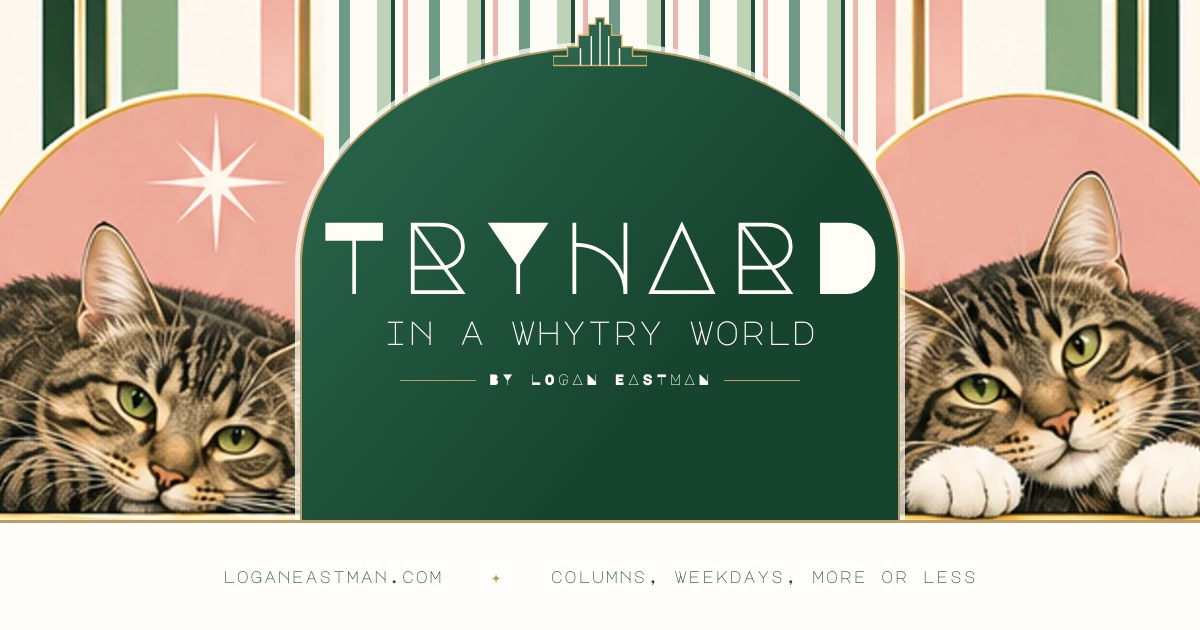
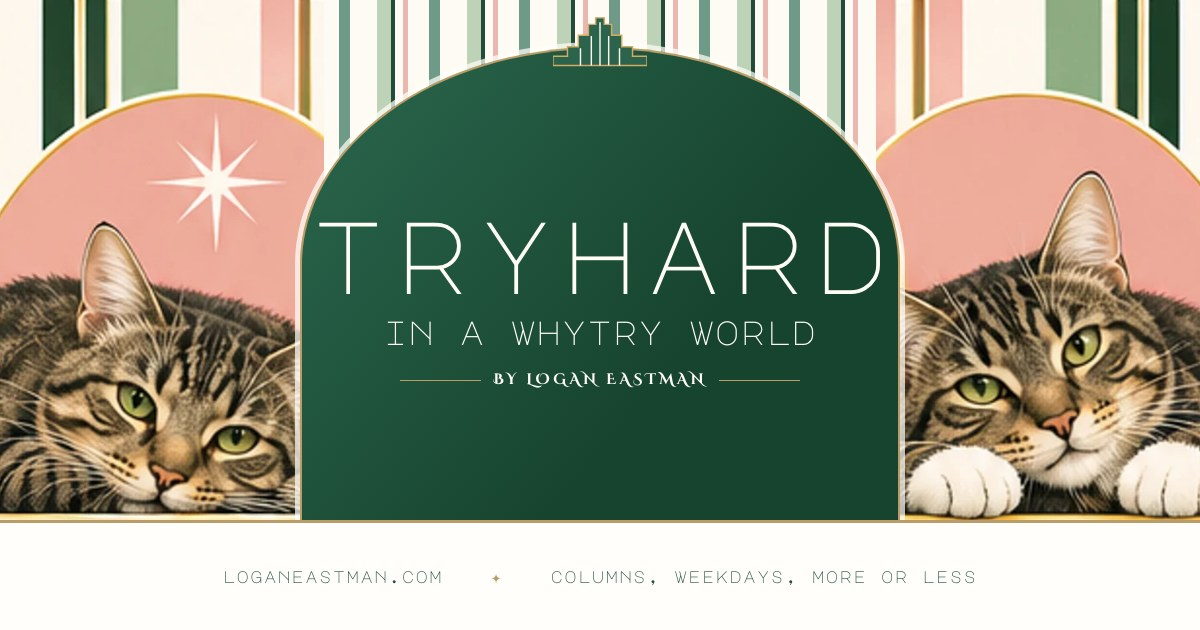
TRYHARD: Cinzel Decorative for nav, bylines and labels; lowercase Major Mono wordmark

Changed region(s): [[0.2467, 0.3317, 0.74, 0.4825], [0.4008, 0.573, 0.5858, 0.6333]]

diff --git a/static/tryhard/css/tryhard.css b/static/tryhard/css/tryhard.css
@@ -333,3 +333,25 @@ body.th-site { min-width: 320px; margin: 0; background: #e5ede6; color: var(--th
 .th-nav a { font-size: .8rem; }
 .th-section-topline h2 { font-size: 1rem; }
 .th-brand-author { font-size: clamp(.5rem, 2.9cqw, .8rem); letter-spacing: .18em; }
+
+/* Label face: Cinzel Decorative for the nav, eyebrows, bylines and small interface labels.
+   It is a caps-only face, so these are set uppercase. Major Mono stays for the wordmark
+   and headlines, always lowercase to avoid its symbol-like capitals. */
+:root { --th-label: 'Cinzel Decorative', 'Cinzel', Georgia, serif; }
+.th-eyebrow, .th-section-topline span, .th-section-topline a, .th-section-topline h2, .th-edition-day,
+.th-archive-date, .th-topic-label, .th-term-count, .th-aside-label, .th-week-label,
+.th-post-nav a span, .th-small, .th-pill, .th-outline-btn, .th-nav a, .th-prose h4, .th-prose th,
+.th-brand-author, .th-topic-pill, .th-skip { font-family: var(--th-label); font-weight: 400; text-transform: uppercase; letter-spacing: .08em; }
+.th-eyebrow { font-size: .7rem; }
+.th-nav a { font-size: .74rem; letter-spacing: .1em; }
+.th-nav a:hover, .th-nav a[aria-current] { font-weight: 700; color: #bc7477; }
+.th-section-topline h2 { font-size: .92rem; letter-spacing: .1em; }
+.th-section-topline span, .th-section-topline a { font-size: .58rem; }
+.th-edition-day, .th-archive-date, .th-week-label { font-size: .58rem; }
+.th-topic-pill { font-size: .62rem; letter-spacing: .05em; }
+.th-pill, .th-outline-btn { font-size: .66rem; }
+.th-brand-author { font-size: clamp(.46rem, 2.7cqw, .76rem); letter-spacing: .2em; font-weight: 700; }
+.th-brand-title, .th-footer-name { text-transform: lowercase; }
+.th-brand-title { letter-spacing: .08em; padding-left: .08em; }
+.th-footer-name span { font-family: var(--th-display); }
+.th-footer .th-small { font-size: .6rem; }

diff --git a/tools/og-card.html b/tools/og-card.html
@@ -1,6 +1,6 @@
 <!-- Source for static/tryhard/og.jpg. With `hugo server` running:  "/Applications/Google Chrome.app/Contents/MacOS/Google Chrome" --headless=new --window-size=1200,630 --screenshot=og.png file://$PWD/tools/og-card.html ; then convert og.png to static/tryhard/og.jpg -->
 <!doctype html><html><head><meta charset="utf-8">
-<link href="https://fonts.googleapis.com/css2?family=Buda:wght@300&family=Major+Mono+Display&display=swap" rel="stylesheet">
+<link href="https://fonts.googleapis.com/css2?family=Buda:wght@300&family=Cinzel+Decorative:wght@400;700&family=Major+Mono+Display&display=swap" rel="stylesheet">
 <link rel="stylesheet" href="http://localhost:1313/tryhard/css/tryhard.css">
 <style>
 html,body{margin:0;width:1200px;height:630px;overflow:hidden;background:#e5ede6}

diff --git a/layouts/partials/tryhard/head.html b/layouts/partials/tryhard/head.html
@@ -34,7 +34,7 @@
 <meta name="twitter:image" content="{{ $og }}">
 <link rel="preconnect" href="https://fonts.googleapis.com">
 <link rel="preconnect" href="https://fonts.gstatic.com" crossorigin>
-<link href="https://fonts.googleapis.com/css2?family=Buda:wght@300&family=Major+Mono+Display&display=swap" rel="stylesheet">
+<link href="https://fonts.googleapis.com/css2?family=Buda:wght@300&family=Cinzel+Decorative:wght@400;700&family=Major+Mono+Display&display=swap" rel="stylesheet">
 <link rel="icon" type="image/svg+xml" href="/tryhard/favicon.svg">
 <link rel="stylesheet" href="/tryhard/css/tryhard.css">
 <link rel="alternate" type="application/rss+xml" href="/columns/index.xml" title="{{ $siteName }}">
